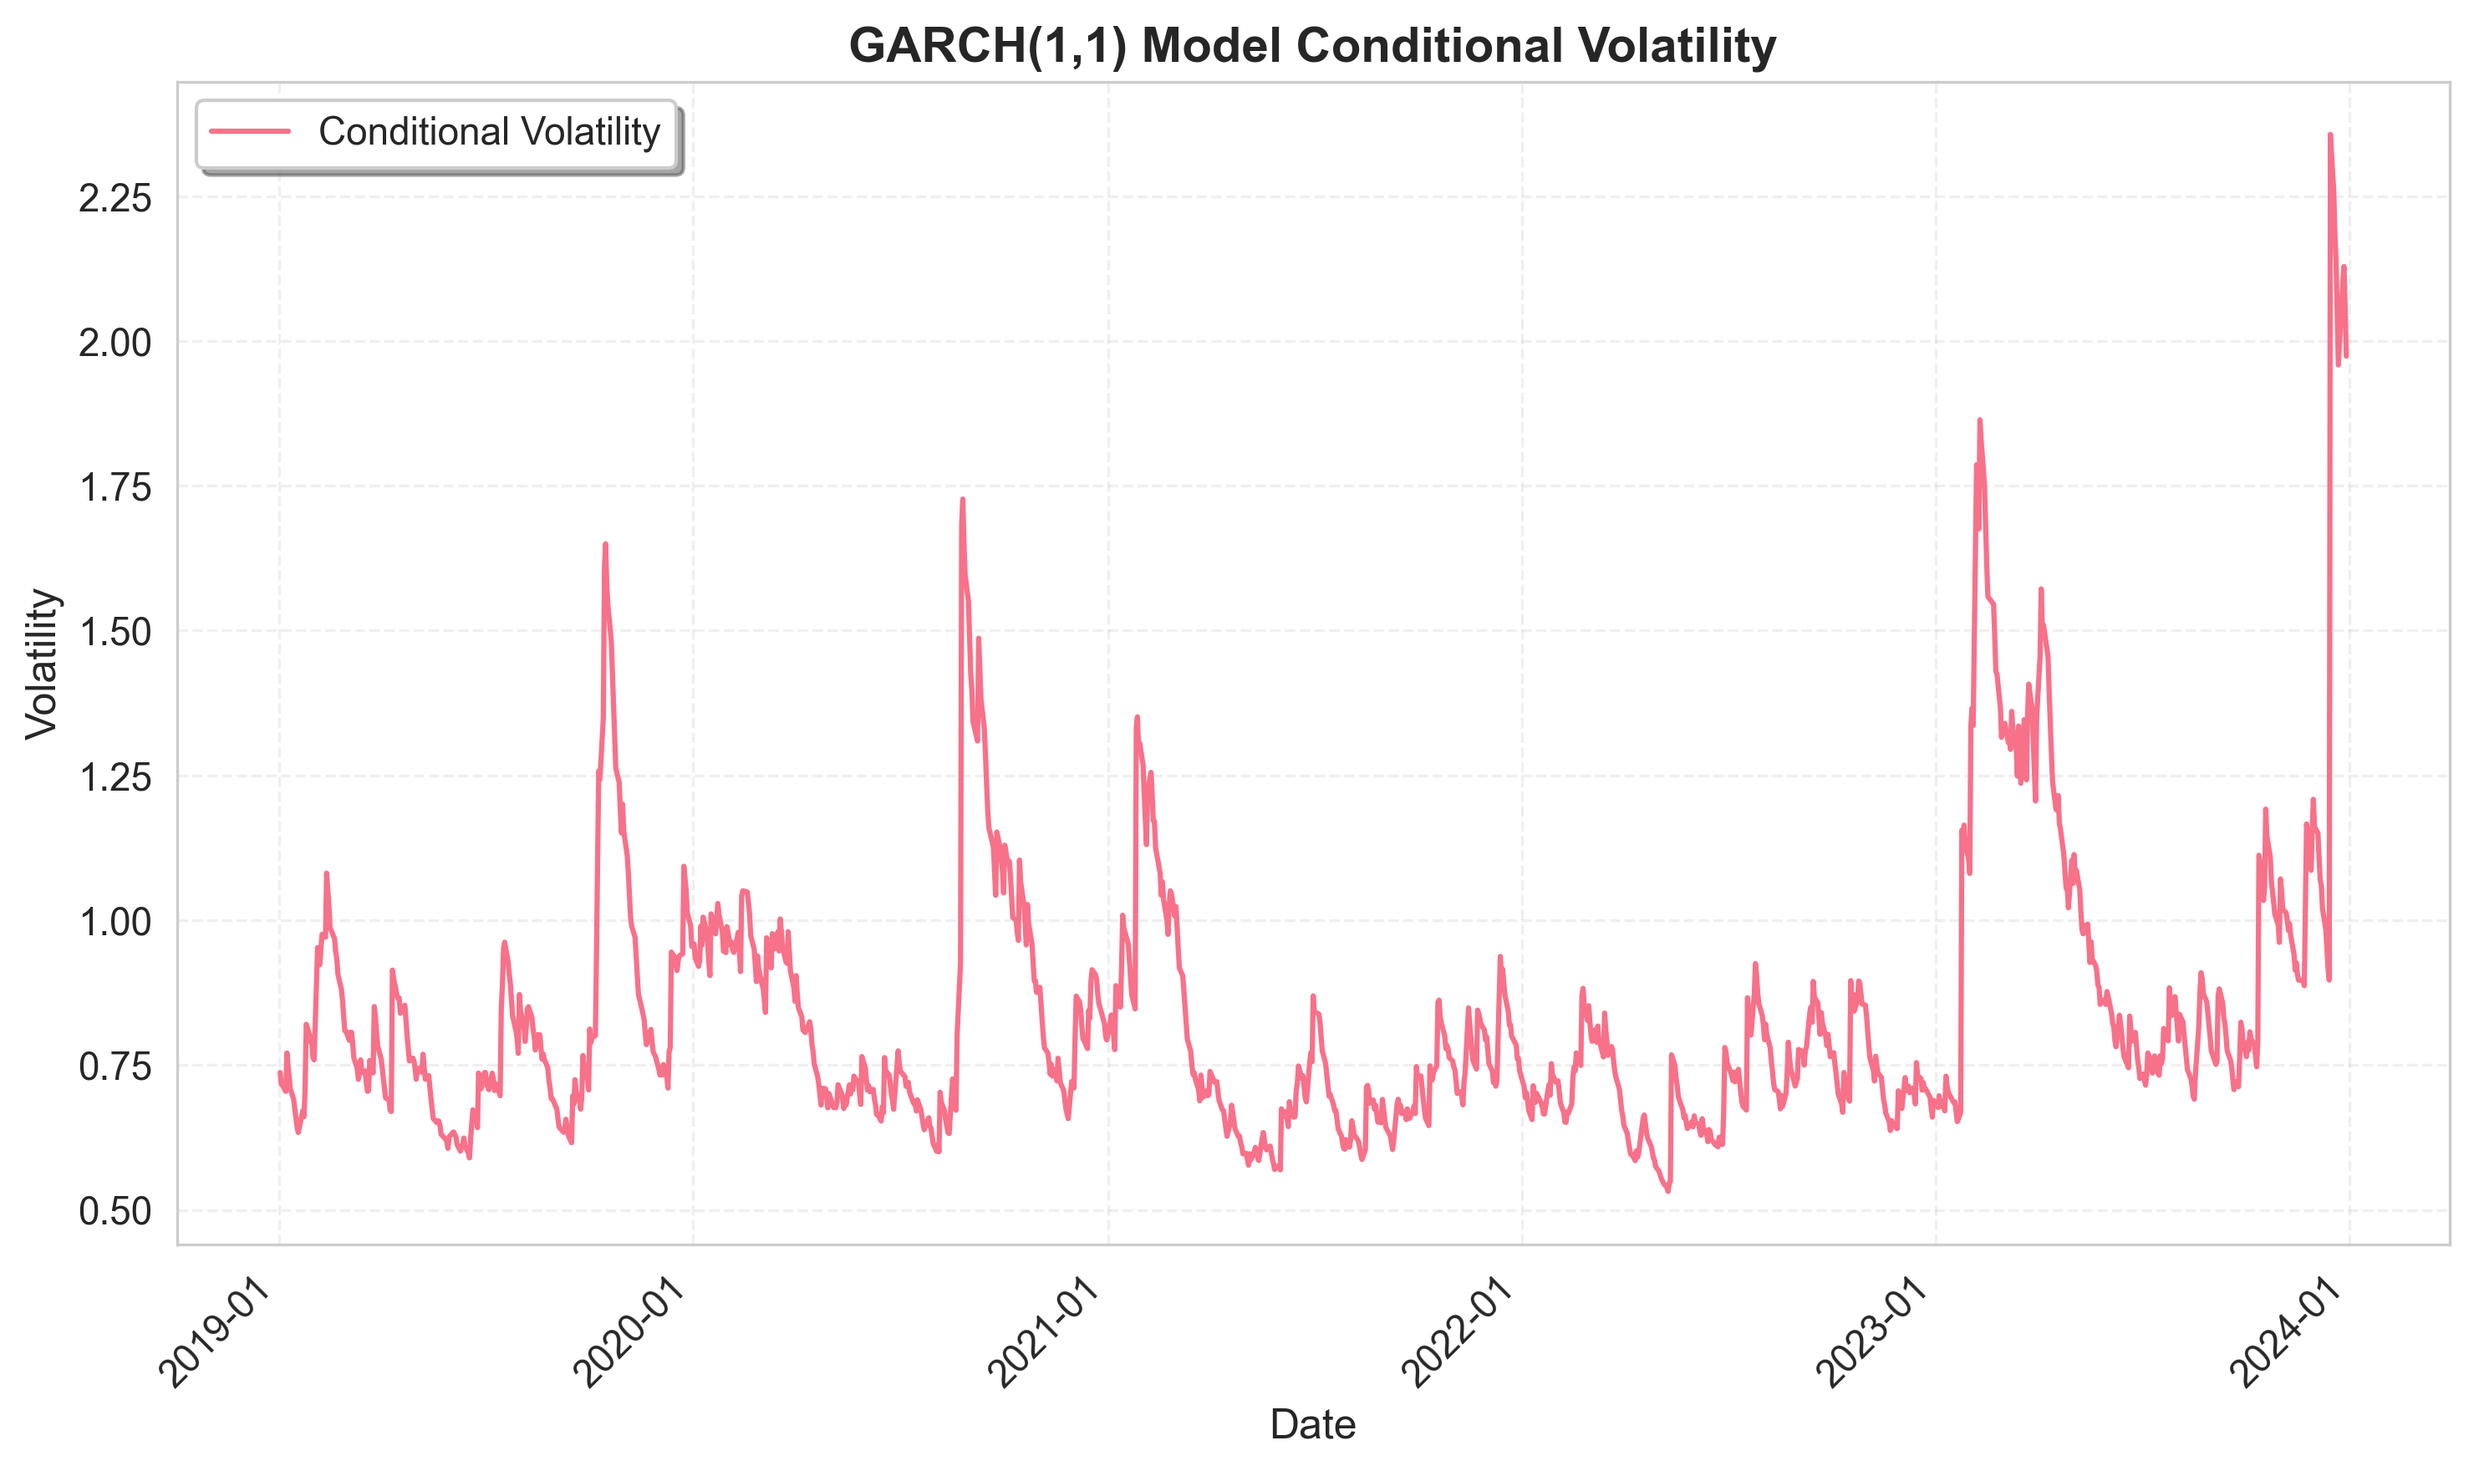
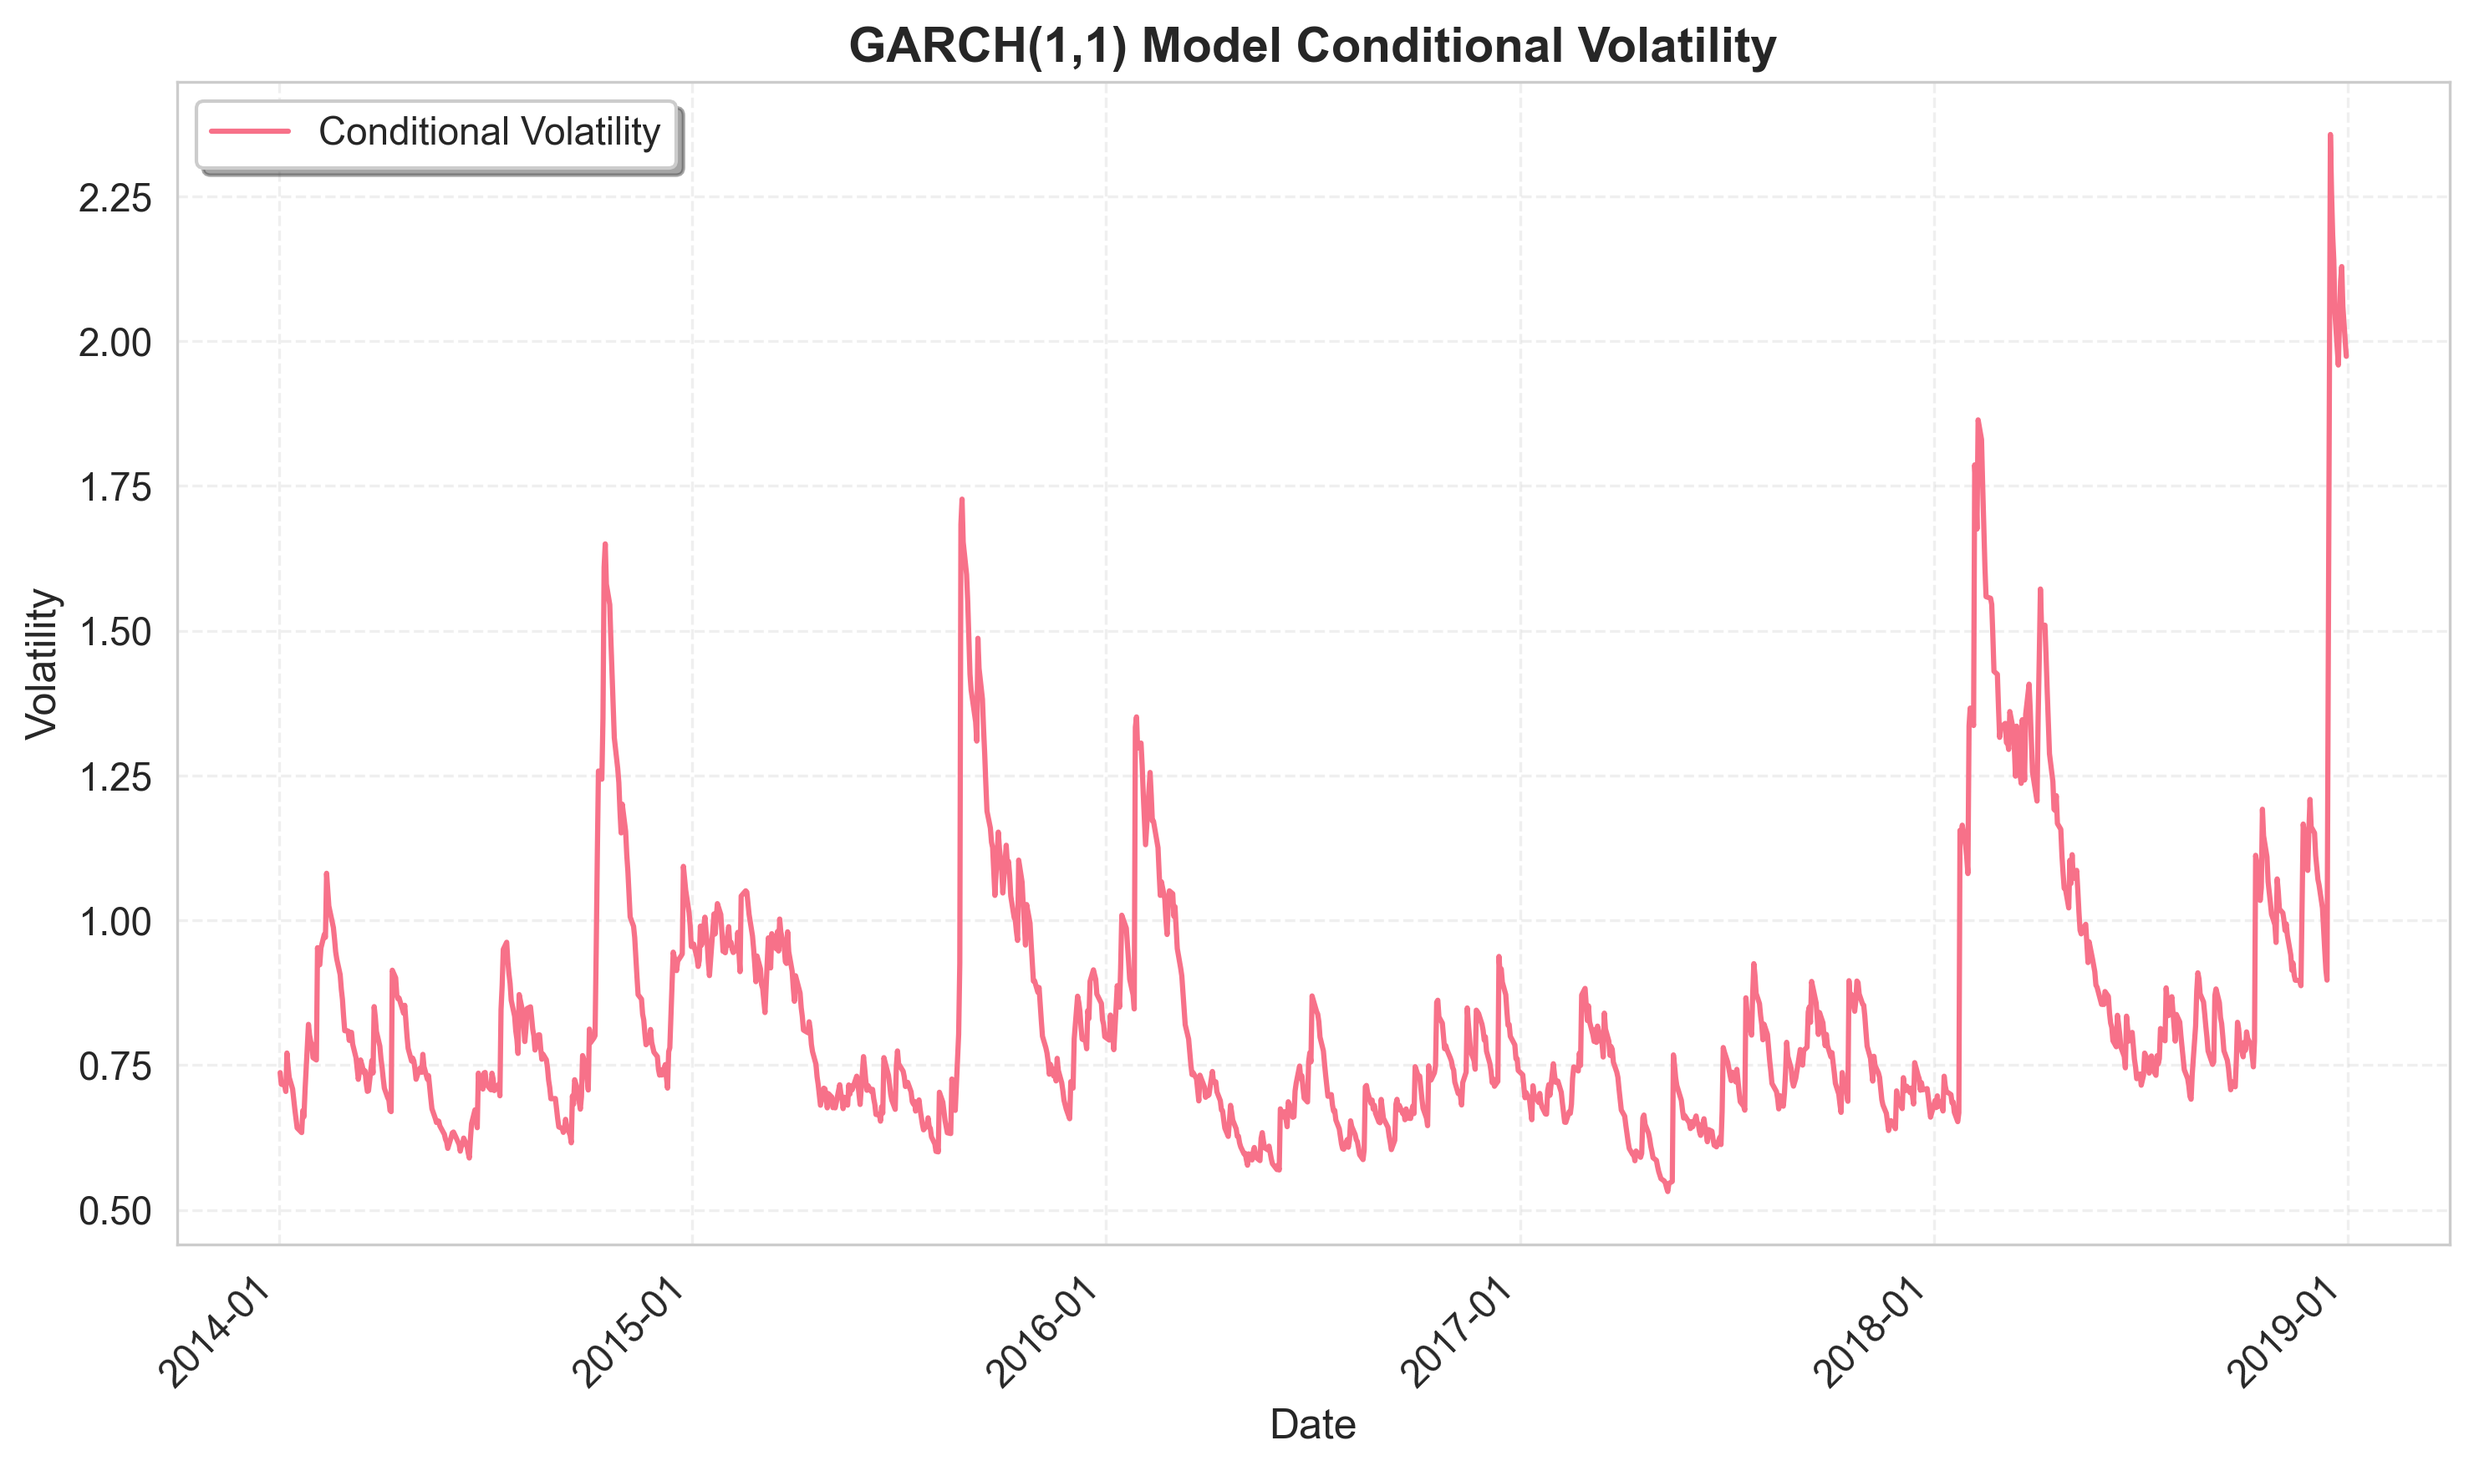
V2

diff --git a/code/main.py b/code/main.py
@@ -214,25 +214,30 @@ def main():
     result = model.fit(disp='off')
     logging.info(f"A.1.4.1 GARCH(1,1) Model Results: {result.summary()}")
 
-    # A1.4.2 Plot GARCH(1,1) Model Results
+    # A1.4.2 Plot GARCH(1,1) Model Results (during estimation period)
     plot_timeseries(result.conditional_volatility, 'GARCH(1,1) Model Conditional Volatility', 'Date', 'Volatility', 
                     os.path.join(PLOTS_DIR, 'A1.4.2_GARCH_1_1_Model_Conditional_Volatility.png'), 
-                    label='Conditional Volatility', x_data=df['DATE'].iloc[1258:].values)
+                    label='Conditional Volatility', x_data=df['DATE'].iloc[:1258].values)
 
-
-    # A1.4.3 Plot Historical Variance vs Garch(1,1) Model Conditional Volatility vs Riskmetric Volatility
-    print(len(historical_variance[63][1258-63:]))
-    print(len(result.conditional_volatility))
-    print(len(riskmetric_volatility[1258-62:]))
-    print(len(df['DATE'].iloc[1258:]))
+    # A1.4.3 Plot Historical Variance vs GARCH(1,1) Model Conditional Volatility vs Riskmetric Volatility
+    # Align all series to estimation period (dates 63 to 1257) where all three have values
+    # historical_variance[63] starts at date 63, so use indices 0 to (1258-63-1) = 0 to 1194
+    # result.conditional_volatility has 1258 values for dates 0-1257, use indices 63 to 1257
+    # riskmetric_volatility[1] is for date 63, so use indices 1 to (1258-63) = 1 to 1195
+    est_start_date = 63 
+    est_end_date = 1258  
     plot_multiple_timeseries(
-        [historical_variance[63][1258-65:], result.conditional_volatility, riskmetric_volatility[1258-66:]],
-        ['Historical Variance', 'GARCH(1,1) Model Conditional Volatility', 'Riskmetric Volatility'],
+        [
+            historical_variance[63][:est_end_date-est_start_date],  # From date 63 to 1257
+            result.conditional_volatility[est_start_date:],  # From date 63 to 1257
+            riskmetric_volatility[1:est_end_date-est_start_date+1]  # From date 63 to 1257
+        ],
+        ['Historical Variance (T=63)', 'GARCH(1,1) Model Conditional Volatility', 'Riskmetric Volatility'],
         'Historical Variance vs GARCH(1,1) Model Conditional Volatility vs Riskmetric Volatility',
         'Date',
         'Value',
         os.path.join(PLOTS_DIR, 'A1.4.3_Historical_Variance_vs_GARCH_1_1_Model_Conditional_Volatility_vs_Riskmetric_Volatility.png'),
-        x_data=df['DATE'].iloc[1258:].values
+        x_data=df['DATE'].iloc[est_start_date:est_end_date].values
     )
 
 
